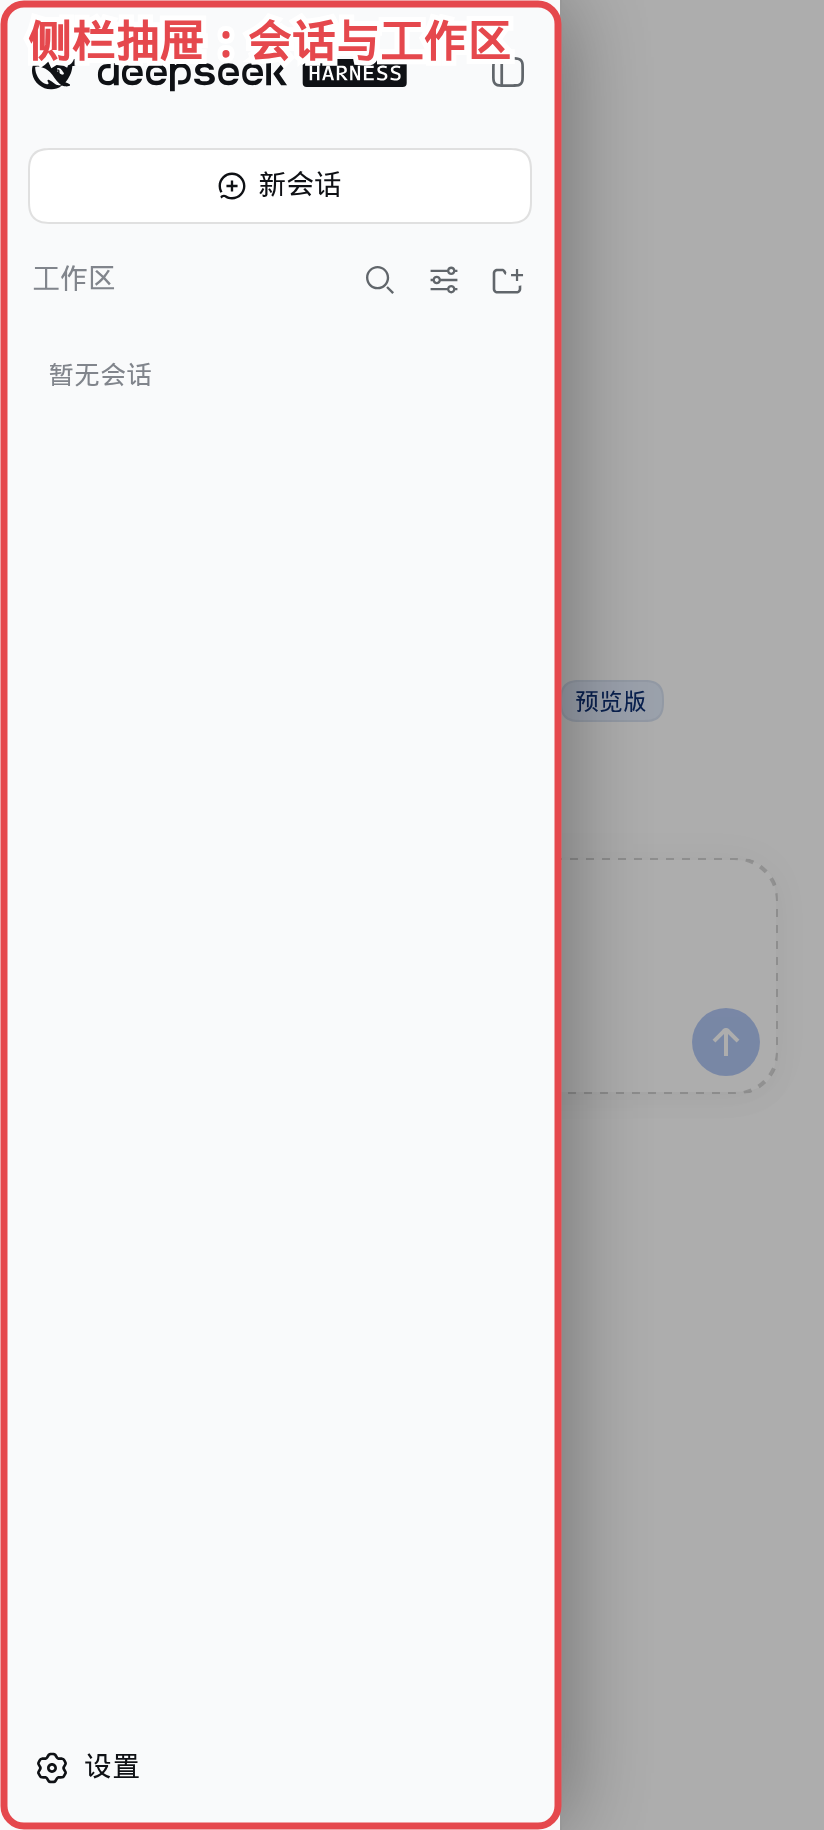
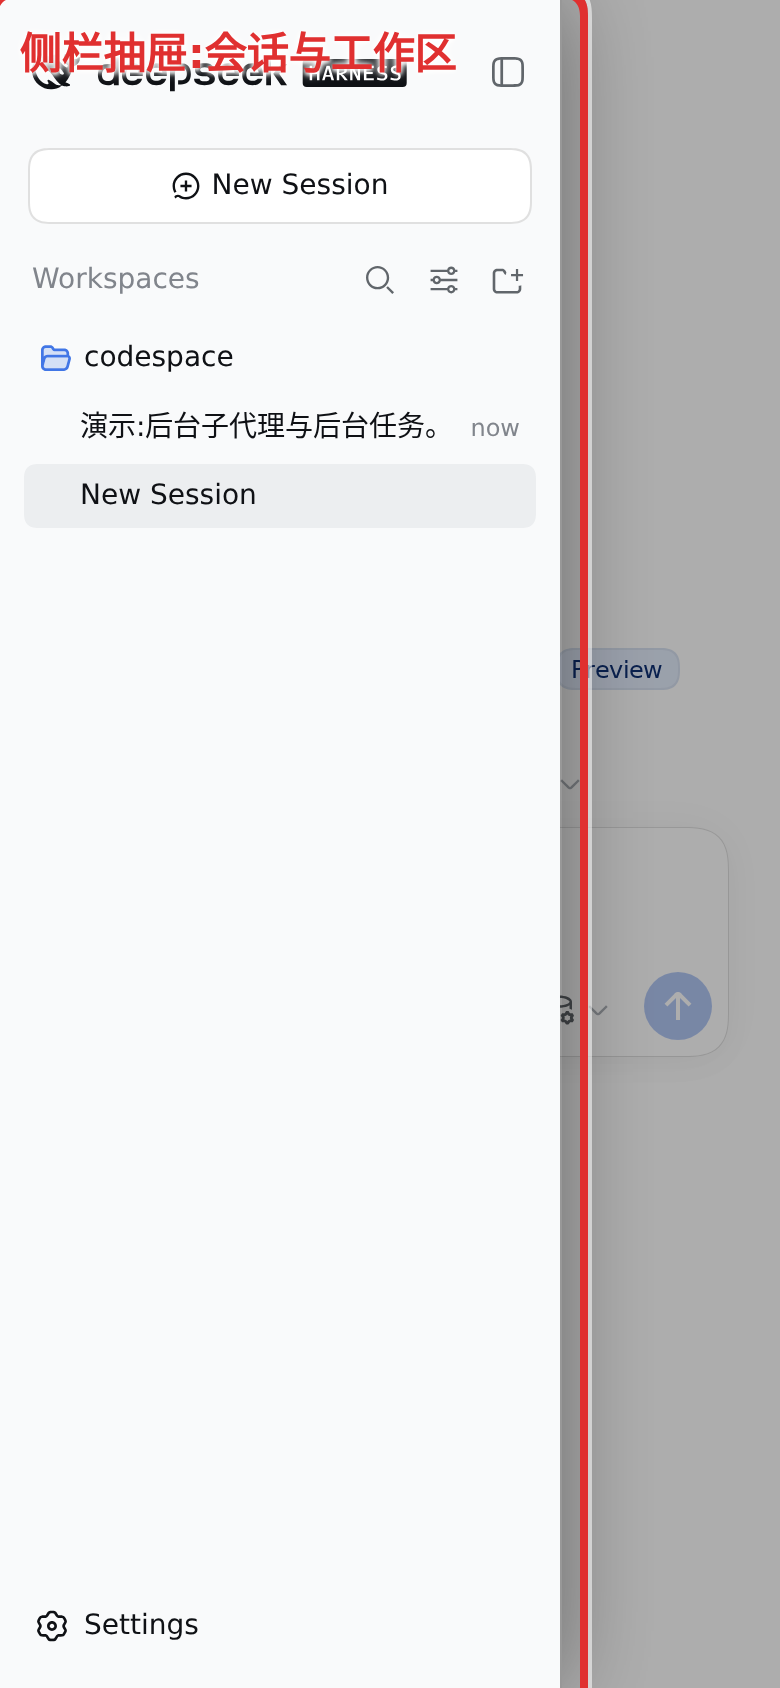
📝 Refresh the annotated screenshots and declare them for storefronts. (#31)
## What

- Recaptures the three annotated screenshots (floating chip, session
drawer, settings tabs) against **dsh 0.1.5-rc.2** with the current 0.8.1
client — the previous set predated the host upgrade and both 0.7.x/0.8.0
features.
- Adds a fourth shot: the **narrow-header collector** (subagent +
background-job sheet open) — it takes the 2×2 grid slot the retired
composer-attach shot used to occupy before #29.
- Declares all four in a new `screenshots.json` next to `package.json`,
so storefronts (dsh-market detail view, awesome-dsh-plugin nightly) pick
them up from the repository instead of falling back to README
extraction.
- Re-records `docs/i18n.yaml` after the screenshot sections in all nine
READMEs gained their fourth cell.

## Privacy

Captured on a clean staging profile; the only session shown is a
synthetic demo (title 「演示:后台子代理与后台任务」, `sleep` background jobs) — no
personal data.

## Verification

Two independent review rounds (hash bookkeeping + path resolution + `npm
run check`; adversarial pass: image content, privacy sweep, completeness
across nine languages, marketplace contract for screenshots.json). No
version bump — client bundle is unchanged (BUILD stays 0.8.1);
storefronts read screenshots from the default branch.

diff --git a/docs/ru/README.md b/docs/ru/README.md
@@ -23,11 +23,12 @@
 
 ## Скриншоты
 
-Плавающая кнопка и шторка сессий (с пояснениями):
+Плавающая кнопка, шторка сессий, вкладки настроек на узких экранах и сборщик заголовка (с пояснениями):
 
 | | |
 |---|---|
 | ![Плавающая кнопка](../../res/shot-floating-chip.png) | ![Шторка сессий](../../res/shot-drawer.png) |
+| ![Вкладки настроек](../../res/shot-settings-tabs.png) | ![Сборщик заголовка](../../res/shot-header-collector.png) |
 
 ## Установка
 

diff --git a/docs/fr/README.md b/docs/fr/README.md
@@ -23,11 +23,12 @@ Améliorations mobiles pour le profil web de [DeepSeek Harness](https://github.c
 
 ## Captures d'écran
 
-La pastille flottante et le tiroir de sessions (annotés) :
+La pastille flottante, le tiroir de sessions, les onglets de paramètres sur écran étroit et le collecteur d'en-tête (annotés) :
 
 | | |
 |---|---|
 | ![Pastille flottante](../../res/shot-floating-chip.png) | ![Tiroir de sessions](../../res/shot-drawer.png) |
+| ![Onglets de paramètres](../../res/shot-settings-tabs.png) | ![Collecteur d'en-tête](../../res/shot-header-collector.png) |
 
 ## Installation
 

diff --git a/docs/ja/README.md b/docs/ja/README.md
@@ -23,11 +23,12 @@
 
 ## スクリーンショット
 
-フローティングチップとセッションドロワー（注釈付き）：
+フローティングチップ、セッションドロワー、狭い画面の設定タブ、狭い画面のヘッダーコレクター（注釈付き）：
 
 | | |
 |---|---|
 | ![フローティングチップ](../../res/shot-floating-chip.png) | ![セッションドロワー](../../res/shot-drawer.png) |
+| ![設定タブ](../../res/shot-settings-tabs.png) | ![ヘッダーコレクター](../../res/shot-header-collector.png) |
 
 ## インストール
 

diff --git a/docs/es/README.md b/docs/es/README.md
@@ -23,11 +23,12 @@ Mejoras de calidad de vida para móviles en el perfil web de [DeepSeek Harness](
 
 ## Capturas de pantalla
 
-El chip flotante y el cajón de sesiones (anotados):
+El chip flotante, el cajón de sesiones, las pestañas de ajustes en pantallas estrechas y el recuperador de cabecera (anotados):
 
 | | |
 |---|---|
 | ![Chip flotante](../../res/shot-floating-chip.png) | ![Cajón de sesiones](../../res/shot-drawer.png) |
+| ![Pestañas de ajustes](../../res/shot-settings-tabs.png) | ![Recuperador de cabecera](../../res/shot-header-collector.png) |
 
 ## Instalación
 

diff --git a/docs/de/README.md b/docs/de/README.md
@@ -23,11 +23,12 @@ Mobilfreundliche Verbesserungen für das Web-Profil von [DeepSeek Harness](https
 
 ## Screenshots
 
-Schwebender Chip und Session-Drawer (mit Beschriftung):
+Schwebender Chip, Session-Drawer, Einstellungen als Tabs auf schmalen Bildschirmen und der Header-Collector (mit Beschriftung):
 
 | | |
 |---|---|
 | ![Schwebender Chip](../../res/shot-floating-chip.png) | ![Session-Drawer](../../res/shot-drawer.png) |
+| ![Einstellungen-Tabs](../../res/shot-settings-tabs.png) | ![Header-Collector](../../res/shot-header-collector.png) |
 
 ## Installation
 

diff --git a/docs/zh-Hant/README.md b/docs/zh-Hant/README.md
@@ -23,11 +23,12 @@
 
 ## 截圖
 
-懸浮球與側欄抽屜（含標註）：
+懸浮球、側欄抽屜、窄螢幕設定標籤與窄螢幕頭部收納器（含標註）：
 
 | | |
 |---|---|
-| ![懸浮球](../../res/shot-floating-chip.png) | ![側欄抽屉](../../res/shot-drawer.png) |
+| ![懸浮球](../../res/shot-floating-chip.png) | ![側欄抽屜](../../res/shot-drawer.png) |
+| ![窄螢幕設定標籤](../../res/shot-settings-tabs.png) | ![窄螢幕頭部收納器](../../res/shot-header-collector.png) |
 
 ## 安裝
 

diff --git a/README.md b/README.md
@@ -23,11 +23,12 @@ Mobile quality-of-life fixes for the [DeepSeek Harness](https://github.com/deeps
 
 ## Screenshots
 
-The floating chip and the session drawer (annotated):
+The floating chip, the session drawer, the narrow-screen settings tabs and the narrow-header collector (annotated):
 
 | | |
 |---|---|
 | ![Floating chip](res/shot-floating-chip.png) | ![Session drawer](res/shot-drawer.png) |
+| ![Settings tabs](res/shot-settings-tabs.png) | ![Header collector](res/shot-header-collector.png) |
 
 ## Install
 

diff --git a/docs/ko/README.md b/docs/ko/README.md
@@ -23,11 +23,12 @@
 
 ## 스크린샷
 
-플로팅 칩과 세션 드로어(주석 포함):
+플로팅 칩, 세션 드로어, 좁은 화면 설정 탭, 좁은 화면 헤더 수집기(주석 포함):
 
 | | |
 |---|---|
 | ![플로팅 칩](../../res/shot-floating-chip.png) | ![세션 드로어](../../res/shot-drawer.png) |
+| ![설정 탭](../../res/shot-settings-tabs.png) | ![헤더 수집기](../../res/shot-header-collector.png) |
 
 ## 설치
 

diff --git a/docs/zh-Hans/README.md b/docs/zh-Hans/README.md
@@ -23,11 +23,12 @@
 
 ## 截图
 
-悬浮球与侧栏抽屉（含标注）：
+悬浮球、侧栏抽屉、窄屏设置标签与窄屏头部收纳器（含标注）：
 
 | | |
 |---|---|
 | ![悬浮球](../../res/shot-floating-chip.png) | ![侧栏抽屉](../../res/shot-drawer.png) |
+| ![窄屏设置标签](../../res/shot-settings-tabs.png) | ![窄屏头部收纳器](../../res/shot-header-collector.png) |
 
 ## 安装
 
